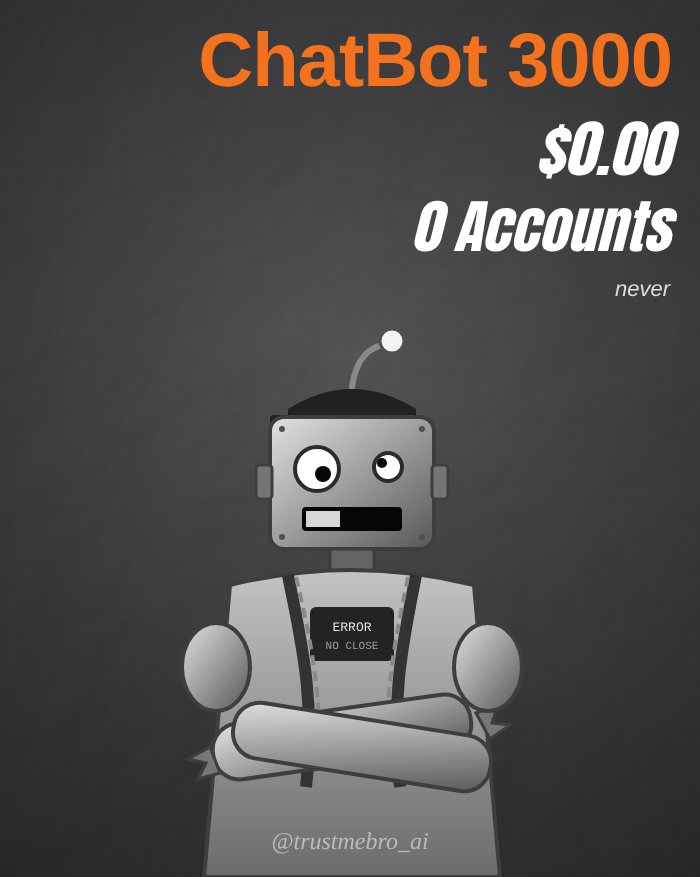
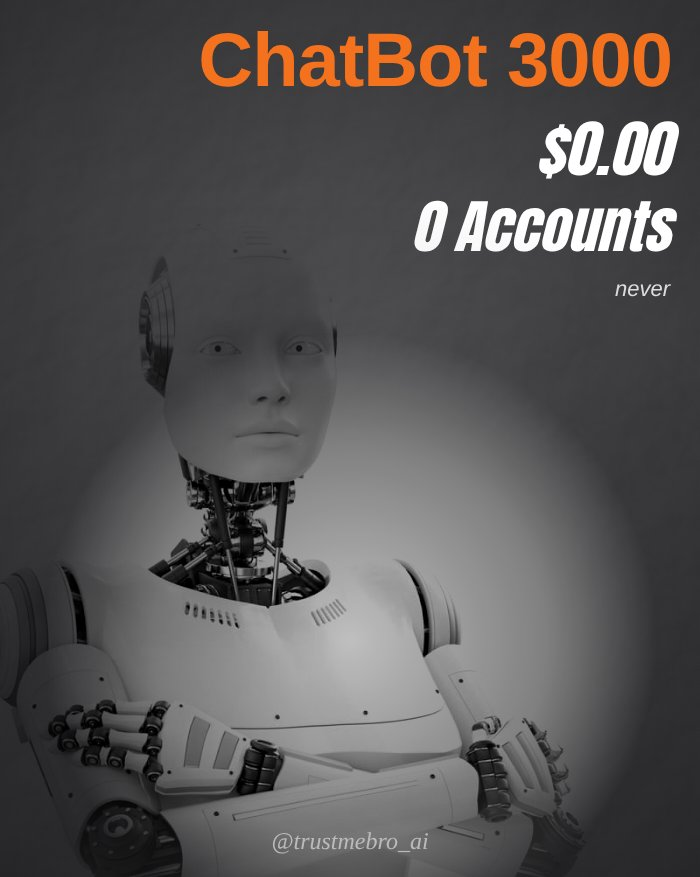
Rebuild the ChatBot 3000 poster around Duncan's robot photo
Claude-Session: https://claude.ai/code/session_0193YVtkiphWNz886v7BvSVt

diff --git a/src/components/home/HomeV2.tsx b/src/components/home/HomeV2.tsx
@@ -626,7 +626,7 @@ export default function HomeV2() {
           <div className="tapes-grid">
             <figure className="mug">
               {/* eslint-disable-next-line @next/next/no-img-element */}
-              <img src="/v2/chatbot.jpg" alt="ChatBot 3000, a robot parody of Marshall's poster: $0.00, 0 accounts" />
+              <img src="/v2/chatbot.jpg" alt="ChatBot 3000, a humanoid robot with crossed arms on a parody of Marshall's poster: $0.00, 0 accounts" />
               <figcaption>CHATBOT 3000 · THE INDUSTRY STANDARD</figcaption>
             </figure>
             <div className="tapes-right">
